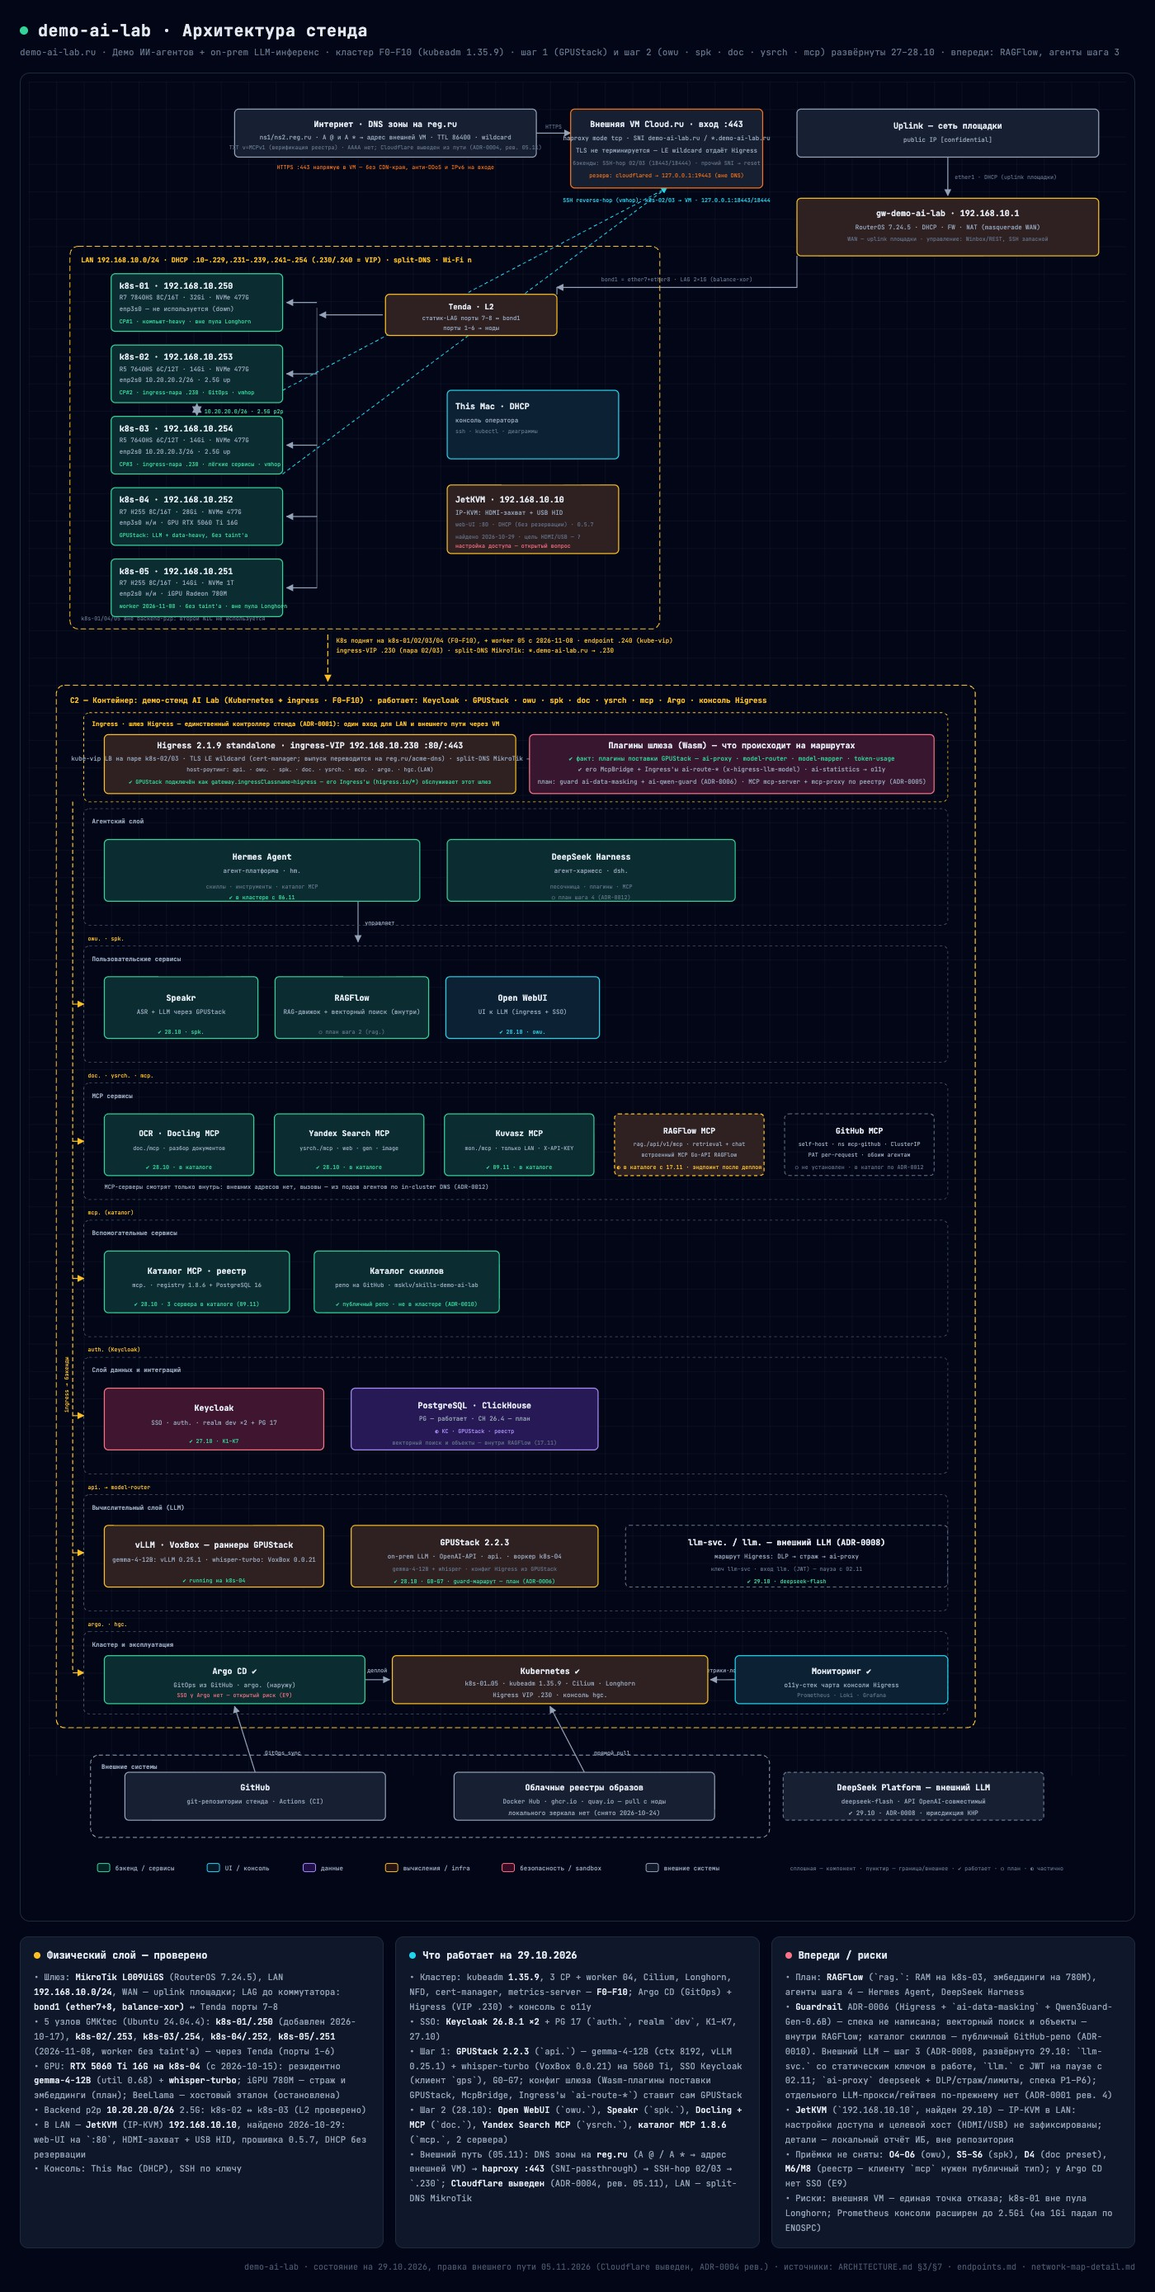
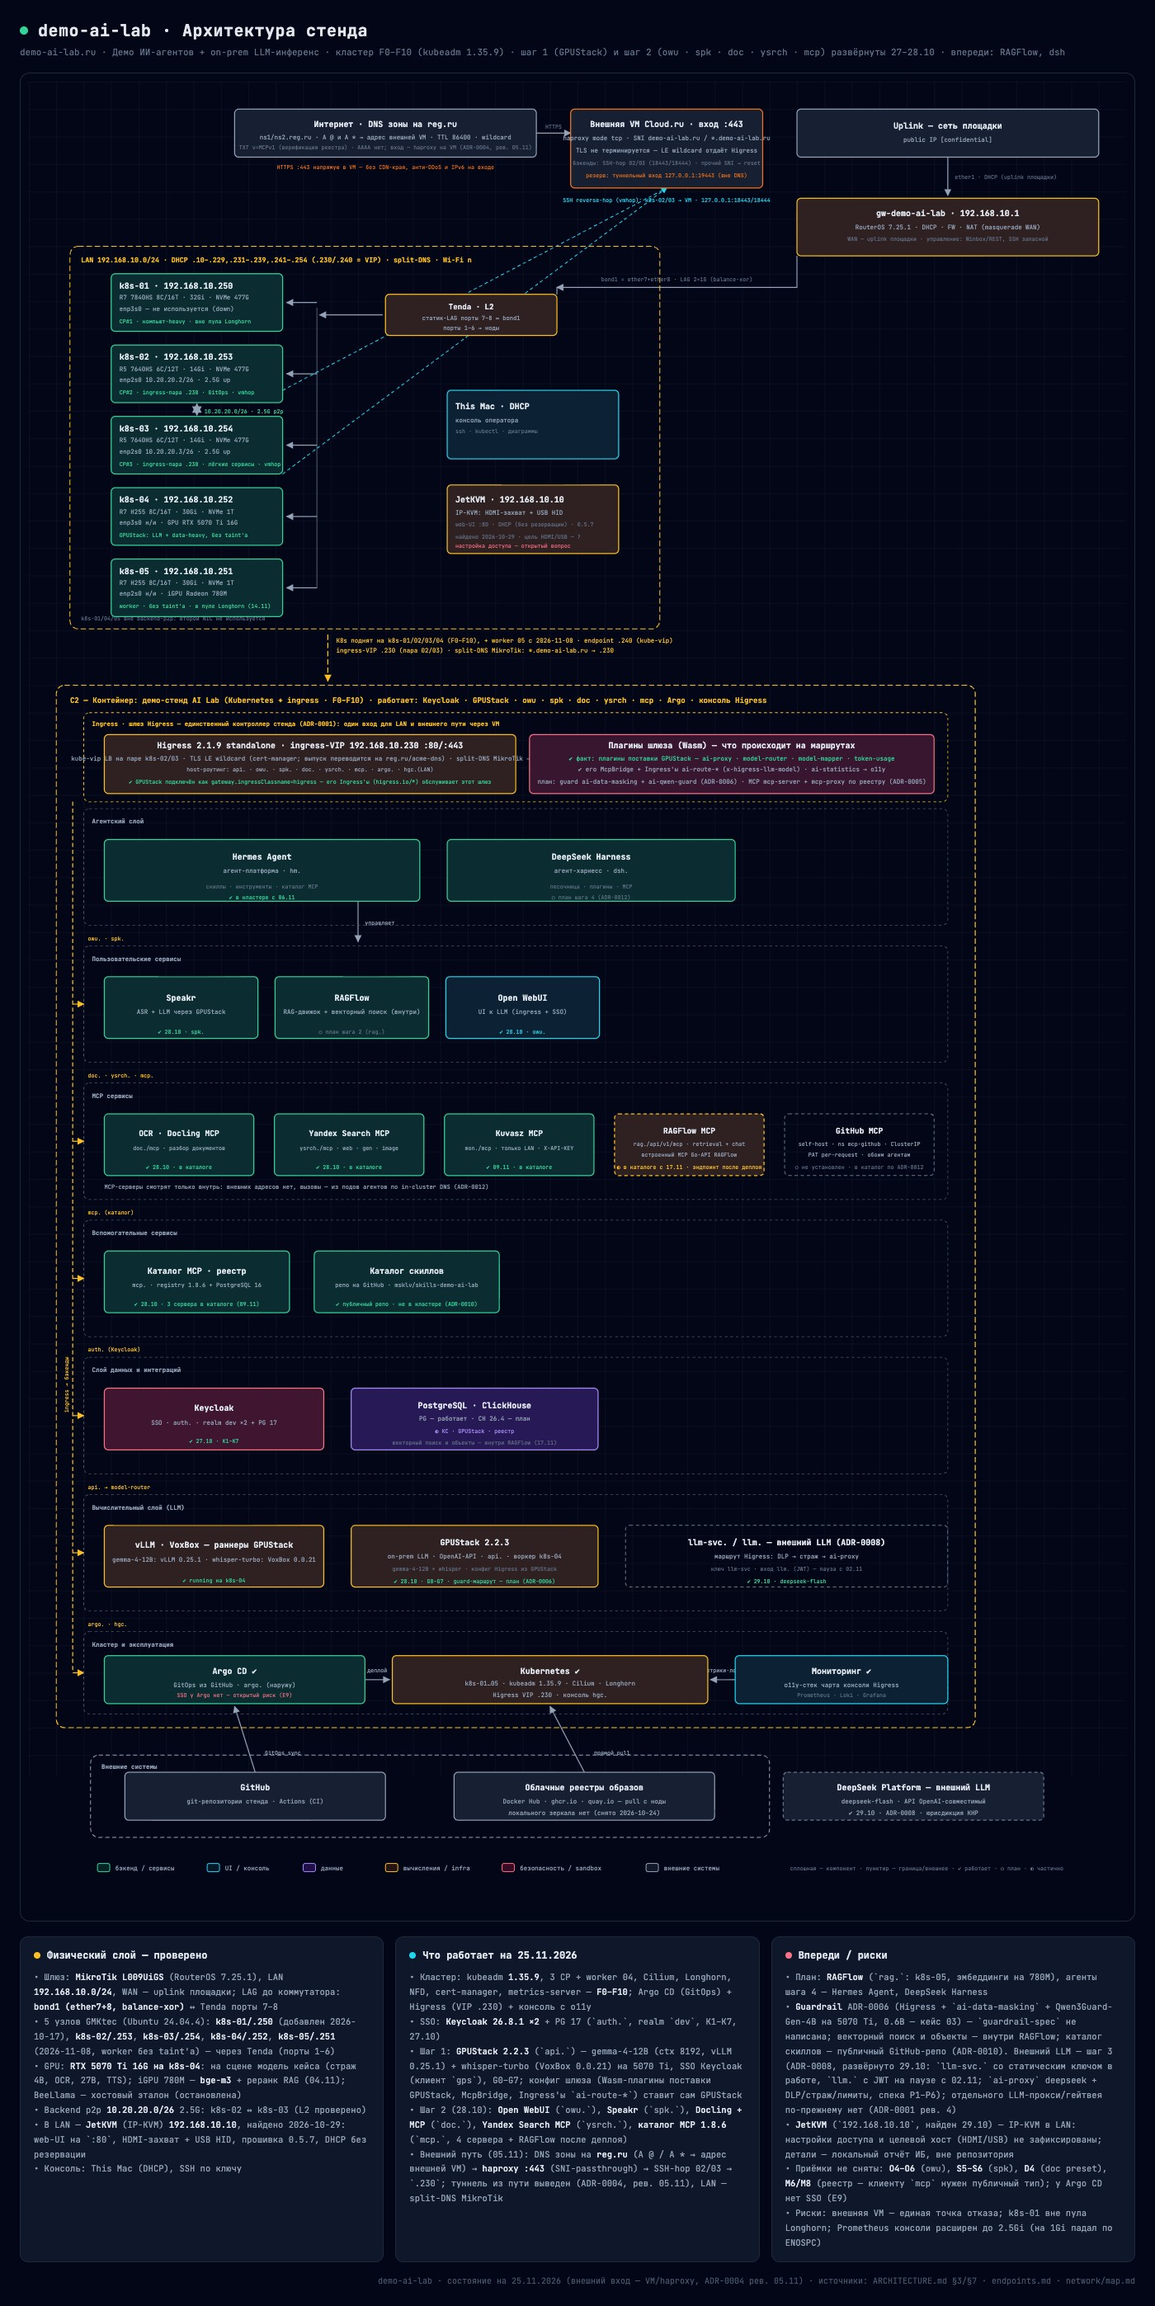
docs(diagrams): C2 и общая схема по фактам 24–25.11; TODO — серты после показа

diff --git a/architecture/demo-ai-lab-architecture.html b/architecture/demo-ai-lab-architecture.html
@@ -55,7 +55,7 @@
   <div class="pulse-dot"></div>
   <h1>demo-ai-lab · Архитектура стенда</h1>
 </div>
-<div class="subtitle">demo-ai-lab.ru · Демо ИИ-агентов + on-prem LLM-инференс · кластер F0–F10 (kubeadm 1.35.9) · шаг 1 (GPUStack) и шаг 2 (owu · spk · doc · ysrch · mcp) развёрнуты 27–28.10 · впереди: RAGFlow, агенты шага 3</div>
+<div class="subtitle">demo-ai-lab.ru · Демо ИИ-агентов + on-prem LLM-инференс · кластер F0–F10 (kubeadm 1.35.9) · шаг 1 (GPUStack) и шаг 2 (owu · spk · doc · ysrch · mcp) развёрнуты 27–28.10 · впереди: RAGFlow, dsh</div>
 
 <div class="diagram-card">
 <svg viewBox="0 0 1600 2670" xmlns="http://www.w3.org/2000/svg">
@@ -118,8 +118,8 @@
 
   <!-- внешние системы нарисованы рядами, а не правой колонкой: верхний ряд — интернет/DNS,
        внешняя VM (публичный вход), uplink; нижний ряд — GitHub, облачные реестры, DeepSeek Platform
-       (шаг 3, ADR-0008: развёрнуто 29.10, в работе `llm-svc.`). Cloudflare выведен из пути
-       2026-11-05 (ADR-0004, рев.): DNS зоны — reg.ru, вход — haproxy на внешней VM. -->
+       (шаг 3, ADR-0008: развёрнуто 29.10, в работе `llm-svc.`). Внешний путь с 2026-11-05 (ADR-0004,
+       рев.): DNS зоны — reg.ru, вход — haproxy на внешней VM. -->
   <!-- VM egress: ssh reverse-hop nodes -> VM -->
   <line x1="370" y1="450" x2="930" y2="155" stroke="#22d3ee" stroke-width="1.2" stroke-dasharray="5,4" marker-end="url(#arrCyan)"/>
   <line x1="370" y1="572" x2="930" y2="155" stroke="#22d3ee" stroke-width="1.2" stroke-dasharray="5,4" marker-end="url(#arrCyan)"/>
@@ -202,7 +202,7 @@
   <rect x="300" y="40" width="440" height="70" rx="6" fill="rgba(30,41,59,0.5)" stroke="#94a3b8" stroke-width="1.5"/>
   <text x="520" y="66" font-size="12" fill="#e2e8f0" text-anchor="middle" font-weight="700">Интернет · DNS зоны на reg.ru</text>
   <text x="520" y="84" font-size="9" fill="#94a3b8" text-anchor="middle">ns1/ns2.reg.ru · A @ и A * → адрес внешней VM · TTL 86400 · wildcard</text>
-  <text x="520" y="99" font-size="8" fill="#64748b" text-anchor="middle">TXT v=MCPv1 (верификация реестра) · AAAA нет; Cloudflare выведен из пути (ADR-0004, рев. 05.11)</text>
+  <text x="520" y="99" font-size="8" fill="#64748b" text-anchor="middle">TXT v=MCPv1 (верификация реестра) · AAAA нет; вход — haproxy на VM (ADR-0004, рев. 05.11)</text>
   <text x="520" y="128" font-size="8" fill="#f97316" text-anchor="middle">HTTPS :443 напрямую в VM — без CDN-края, анти-DDoS и IPv6 на входе</text>
 
   <line x1="740" y1="75" x2="790" y2="75" stroke="#94a3b8" stroke-width="1.5" marker-end="url(#arr)"/>
@@ -214,7 +214,7 @@
   <text x="930" y="86" font-size="9" fill="#94a3b8" text-anchor="middle">haproxy mode tcp · SNI demo-ai-lab.ru / *.demo-ai-lab.ru</text>
   <text x="930" y="104" font-size="9" fill="#94a3b8" text-anchor="middle">TLS не терминируется — LE wildcard отдаёт Higress</text>
   <text x="930" y="122" font-size="8" fill="#64748b" text-anchor="middle">бэкенды: SSH-hop 02/03 (18443/18444) · прочий SNI → reset</text>
-  <text x="930" y="140" font-size="8" fill="#f97316" text-anchor="middle">резерв: cloudflared → 127.0.0.1:19443 (вне DNS)</text>
+  <text x="930" y="140" font-size="8" fill="#f97316" text-anchor="middle">резерв: туннельный вход 127.0.0.1:19443 (вне DNS)</text>
 
   <!-- Uplink (external slate) -->
   <rect x="1120" y="40" width="440" height="70" rx="6" fill="#0f172a"/>
@@ -226,7 +226,7 @@
   <rect x="1120" y="170" width="440" height="84" rx="6" fill="#0f172a"/>
   <rect x="1120" y="170" width="440" height="84" rx="6" fill="rgba(120,53,15,0.3)" stroke="#fbbf24" stroke-width="1.5"/>
   <text x="1340" y="196" font-size="12" fill="#e2e8f0" text-anchor="middle" font-weight="700">gw-demo-ai-lab · 192.168.10.1</text>
-  <text x="1340" y="215" font-size="9" fill="#94a3b8" text-anchor="middle">RouterOS 7.24.5 · DHCP · FW · NAT (masquerade WAN)</text>
+  <text x="1340" y="215" font-size="9" fill="#94a3b8" text-anchor="middle">RouterOS 7.25.1 · DHCP · FW · NAT (masquerade WAN)</text>
   <text x="1340" y="232" font-size="8" fill="#64748b" text-anchor="middle">WAN — uplink площадки · управление: Winbox/REST, SSH запасной</text>
 
   <!-- Tenda switch (amber) -->
@@ -264,17 +264,17 @@
   <rect x="120" y="592" width="250" height="84" rx="6" fill="#0f172a"/>
   <rect x="120" y="592" width="250" height="84" rx="6" fill="rgba(6,78,59,0.4)" stroke="#34d399" stroke-width="1.5"/>
   <text x="132" y="614" font-size="12" fill="#e2e8f0" font-weight="700">k8s-04 · 192.168.10.252</text>
-  <text x="132" y="630" font-size="9" fill="#94a3b8">R7 H255 8C/16T · 28Gi · NVMe 477G</text>
-  <text x="132" y="646" font-size="9" fill="#94a3b8">enp3s0 н/и · GPU RTX 5060 Ti 16G</text>
+  <text x="132" y="630" font-size="9" fill="#94a3b8">R7 H255 8C/16T · 30Gi · NVMe 1T</text>
+  <text x="132" y="646" font-size="9" fill="#94a3b8">enp3s0 н/и · GPU RTX 5070 Ti 16G</text>
   <text x="132" y="664" font-size="8" fill="#34d399">GPUStack: LLM + data-heavy, без taint'а</text>
 
   <!-- k8s-05 (emerald, добавлена 2026-11-08) -->
   <rect x="120" y="696" width="250" height="84" rx="6" fill="#0f172a"/>
   <rect x="120" y="696" width="250" height="84" rx="6" fill="rgba(6,78,59,0.4)" stroke="#34d399" stroke-width="1.5"/>
   <text x="132" y="718" font-size="12" fill="#e2e8f0" font-weight="700">k8s-05 · 192.168.10.251</text>
-  <text x="132" y="734" font-size="9" fill="#94a3b8">R7 H255 8C/16T · 14Gi · NVMe 1T</text>
+  <text x="132" y="734" font-size="9" fill="#94a3b8">R7 H255 8C/16T · 30Gi · NVMe 1T</text>
   <text x="132" y="750" font-size="9" fill="#94a3b8">enp2s0 н/и · iGPU Radeon 780M</text>
-  <text x="132" y="768" font-size="8" fill="#34d399">worker 2026-11-08 · без taint'а · вне пула Longhorn</text>
+  <text x="132" y="768" font-size="8" fill="#34d399">worker · без taint'а · в пуле Longhorn (14.11)</text>
 
   <!-- Mac (cyan) -->
   <rect x="610" y="450" width="250" height="100" rx="6" fill="#0f172a"/>
@@ -470,29 +470,29 @@
   <div class="card">
     <div class="card-header"><div class="card-dot amber"></div><h3>Физический слой — проверено</h3></div>
     <ul>
-      <li>• Шлюз: <b>MikroTik L009UiGS</b> (RouterOS 7.24.5), LAN <b>192.168.10.0/24</b>, WAN — uplink площадки; LAG до коммутатора: <b>bond1 (ether7+8, balance-xor)</b> ↔ Tenda порты 7–8</li>
+      <li>• Шлюз: <b>MikroTik L009UiGS</b> (RouterOS 7.25.1), LAN <b>192.168.10.0/24</b>, WAN — uplink площадки; LAG до коммутатора: <b>bond1 (ether7+8, balance-xor)</b> ↔ Tenda порты 7–8</li>
       <li>• 5 узлов GMKtec (Ubuntu 24.04.4): <b>k8s-01/.250</b> (добавлен 2026-10-17), <b>k8s-02/.253</b>, <b>k8s-03/.254</b>, <b>k8s-04/.252</b>, <b>k8s-05/.251</b> (2026-11-08, worker без taint'а) — через Tenda (порты 1–6)</li>
-      <li>• GPU: <b>RTX 5060 Ti 16G на k8s-04</b> (с 2026-10-15): резидентно <b>gemma-4-12B</b> (util 0.68) + <b>whisper-turbo</b>; iGPU 780M — страж и эмбеддинги (план); BeeLlama — хостовый эталон (остановлена)</li>
+      <li>• GPU: <b>RTX 5070 Ti 16G на k8s-04</b>: на сцене модель кейса (страж 4B, OCR, 27B, TTS); iGPU 780M — <b>bge-m3</b> + реранк RAG (04.11); BeeLlama — хостовый эталон (остановлена)</li>
       <li>• Backend p2p <b>10.20.20.0/26</b> 2.5G: k8s-02 ↔ k8s-03 (L2 проверено)</li>
       <li>• В LAN — <b>JetKVM</b> (IP-KVM) <b>192.168.10.10</b>, найдено 2026-10-29: web-UI на `:80`, HDMI-захват + USB HID, прошивка 0.5.7, DHCP без резервации</li>
       <li>• Консоль: This Mac (DHCP), SSH по ключу</li>
     </ul>
   </div>
   <div class="card">
-    <div class="card-header"><div class="card-dot cyan"></div><h3>Что работает на 29.10.2026</h3></div>
+    <div class="card-header"><div class="card-dot cyan"></div><h3>Что работает на 25.11.2026</h3></div>
     <ul>
       <li>• Кластер: kubeadm <b>1.35.9</b>, 3 CP + worker 04, Cilium, Longhorn, NFD, cert-manager, metrics-server — <b>F0–F10</b>; Argo CD (GitOps) + Higress (VIP .230) + консоль с o11y</li>
       <li>• SSO: <b>Keycloak 26.8.1 ×2</b> + PG 17 (`auth.`, realm `dev`, K1–K7, 27.10)</li>
-      <li>• Шаг 1: <b>GPUStack 2.2.3</b> (`api.`) — gemma-4-12B (ctx 8192, vLLM 0.25.1) + whisper-turbo (VoxBox 0.0.21) на 5060 Ti, SSO Keycloak (клиент `gps`), G0–G7; конфиг шлюза (Wasm-плагины поставки GPUStack, McpBridge, Ingress'ы `ai-route-*`) ставит сам GPUStack</li>
-      <li>• Шаг 2 (28.10): <b>Open WebUI</b> (`owu.`), <b>Speakr</b> (`spk.`), <b>Docling + MCP</b> (`doc.`), <b>Yandex Search MCP</b> (`ysrch.`), <b>каталог MCP 1.8.6</b> (`mcp.`, 2 сервера)</li>
-      <li>• Внешний путь (05.11): DNS зоны на <b>reg.ru</b> (A @ / A * → адрес внешней VM) → <b>haproxy :443</b> (SNI-passthrough) → SSH-hop 02/03 → `.230`; <b>Cloudflare выведен</b> (ADR-0004, рев. 05.11), LAN — split-DNS MikroTik</li>
+      <li>• Шаг 1: <b>GPUStack 2.2.3</b> (`api.`) — gemma-4-12B (ctx 8192, vLLM 0.25.1) + whisper-turbo (VoxBox 0.0.21) на 5070 Ti, SSO Keycloak (клиент `gps`), G0–G7; конфиг шлюза (Wasm-плагины поставки GPUStack, McpBridge, Ingress'ы `ai-route-*`) ставит сам GPUStack</li>
+      <li>• Шаг 2 (28.10): <b>Open WebUI</b> (`owu.`), <b>Speakr</b> (`spk.`), <b>Docling + MCP</b> (`doc.`), <b>Yandex Search MCP</b> (`ysrch.`), <b>каталог MCP 1.8.6</b> (`mcp.`, 4 сервера + RAGFlow после деплоя)</li>
+      <li>• Внешний путь (05.11): DNS зоны на <b>reg.ru</b> (A @ / A * → адрес внешней VM) → <b>haproxy :443</b> (SNI-passthrough) → SSH-hop 02/03 → `.230`; туннель из пути выведен (ADR-0004, рев. 05.11), LAN — split-DNS MikroTik</li>
     </ul>
   </div>
   <div class="card">
     <div class="card-header"><div class="card-dot rose"></div><h3>Впереди / риски</h3></div>
     <ul>
-      <li>• План: <b>RAGFlow</b> (`rag.`: RAM на k8s-03, эмбеддинги на 780M), агенты шага 4 — Hermes Agent, DeepSeek Harness</li>
-      <li>• <b>Guardrail</b> ADR-0006 (Higress + `ai-data-masking` + Qwen3Guard-Gen-0.6B) — спека не написана; векторный поиск и объекты — внутри RAGFlow; каталог скиллов — публичный GitHub-репо (ADR-0010). Внешний LLM — шаг 3 (ADR-0008, развёрнуто 29.10: `llm-svc.` со статическим ключом в работе, `llm.` с JWT на паузе с 02.11; `ai-proxy` deepseek + DLP/страж/лимиты, спека P1–P6); отдельного LLM-прокси/гейтвея по-прежнему нет (ADR-0001 рев. 4)</li>
+      <li>• План: <b>RAGFlow</b> (`rag.`: k8s-05, эмбеддинги на 780M), агенты шага 4 — Hermes Agent, DeepSeek Harness</li>
+      <li>• <b>Guardrail</b> ADR-0006 (Higress + `ai-data-masking` + Qwen3Guard-Gen-4B на 5070 Ti, 0.6B — кейс 03) — `guardrail-spec` не написана; векторный поиск и объекты — внутри RAGFlow; каталог скиллов — публичный GitHub-репо (ADR-0010). Внешний LLM — шаг 3 (ADR-0008, развёрнуто 29.10: `llm-svc.` со статическим ключом в работе, `llm.` с JWT на паузе с 02.11; `ai-proxy` deepseek + DLP/страж/лимиты, спека P1–P6); отдельного LLM-прокси/гейтвея по-прежнему нет (ADR-0001 рев. 4)</li>
       <li>• <b>JetKVM</b> (`192.168.10.10`, найден 29.10) — IP-KVM в LAN: настройки доступа и целевой хост (HDMI/USB) не зафиксированы; детали — локальный отчёт ИБ, вне репозитория</li>
       <li>• Приёмки не сняты: <b>O4–O6</b> (owu), <b>S5–S6</b> (spk), <b>D4</b> (doc preset), <b>M6/M8</b> (реестр — клиенту `mcp` нужен публичный тип); у Argo CD нет SSO (E9)</li>
       <li>• Риски: внешняя VM — единая точка отказа; k8s-01 вне пула Longhorn; Prometheus консоли расширен до 2.5Gi (на 1Gi падал по ENOSPC)</li>
@@ -500,7 +500,7 @@
   </div>
 </div>
 
-<div class="footer">demo-ai-lab · состояние на 29.10.2026, правка внешнего пути 05.11.2026 (Cloudflare выведен, ADR-0004 рев.) · источники: ARCHITECTURE.md §3/§7 · endpoints.md · network/map.md</div>
+<div class="footer">demo-ai-lab · состояние на 25.11.2026 (внешний вход — VM/haproxy, ADR-0004 рев. 05.11) · источники: ARCHITECTURE.md §3/§7 · endpoints.md · network/map.md</div>
 
 </body>
 </html>

diff --git a/TODO.md b/TODO.md
@@ -9,3 +9,15 @@
       `architecture/hardware-inventory.md`; на этом же диске LV Longhorn 250G и `/data` 454G.
       Наблюдение — `scripts/k8s_health.py` (секция «Диски»), разбор — skill `demo-ai-lab-stand`,
       reference `disk-medium-error-forensics`.
+
+## TLS и сертификаты
+
+- [ ] **После показа: продление сертов без `letsencrypt-wildcard`.** Issuer и его секреты удалены
+      2026-11-25, но на него всё ещё ссылаются 11 `Certificate`: wildcard `demo-wildcard` — до
+      17.01.2027, сервисные — до 24.01–02.02.2027. Автопродление cert-manager запускается ~за 30 дней,
+      то есть окно работы — конец декабря; сейчас продление упадёт (`IssuerNotFound`). План: публичные
+      хосты (`owu`, `spk`, `doc`, `mcp`, `api`, `llm`, `auth`, `hm`, `dsh`, `mon`) перевести на
+      `letsencrypt-http01`; для `argo`/`hgc`/`lng`/`mon` исключить `/.well-known/acme-challenge/` из
+      LAN-allowlist (`gitops/infra-apps/infra/lan-only-ui.yaml`), иначе LE упрётся в `403`; wildcard —
+      `acme-dns`/`regru` DNS-01 либо ручной выпуск. Проверка — `scripts/env_health.py` (TLS-цепочка).
+
